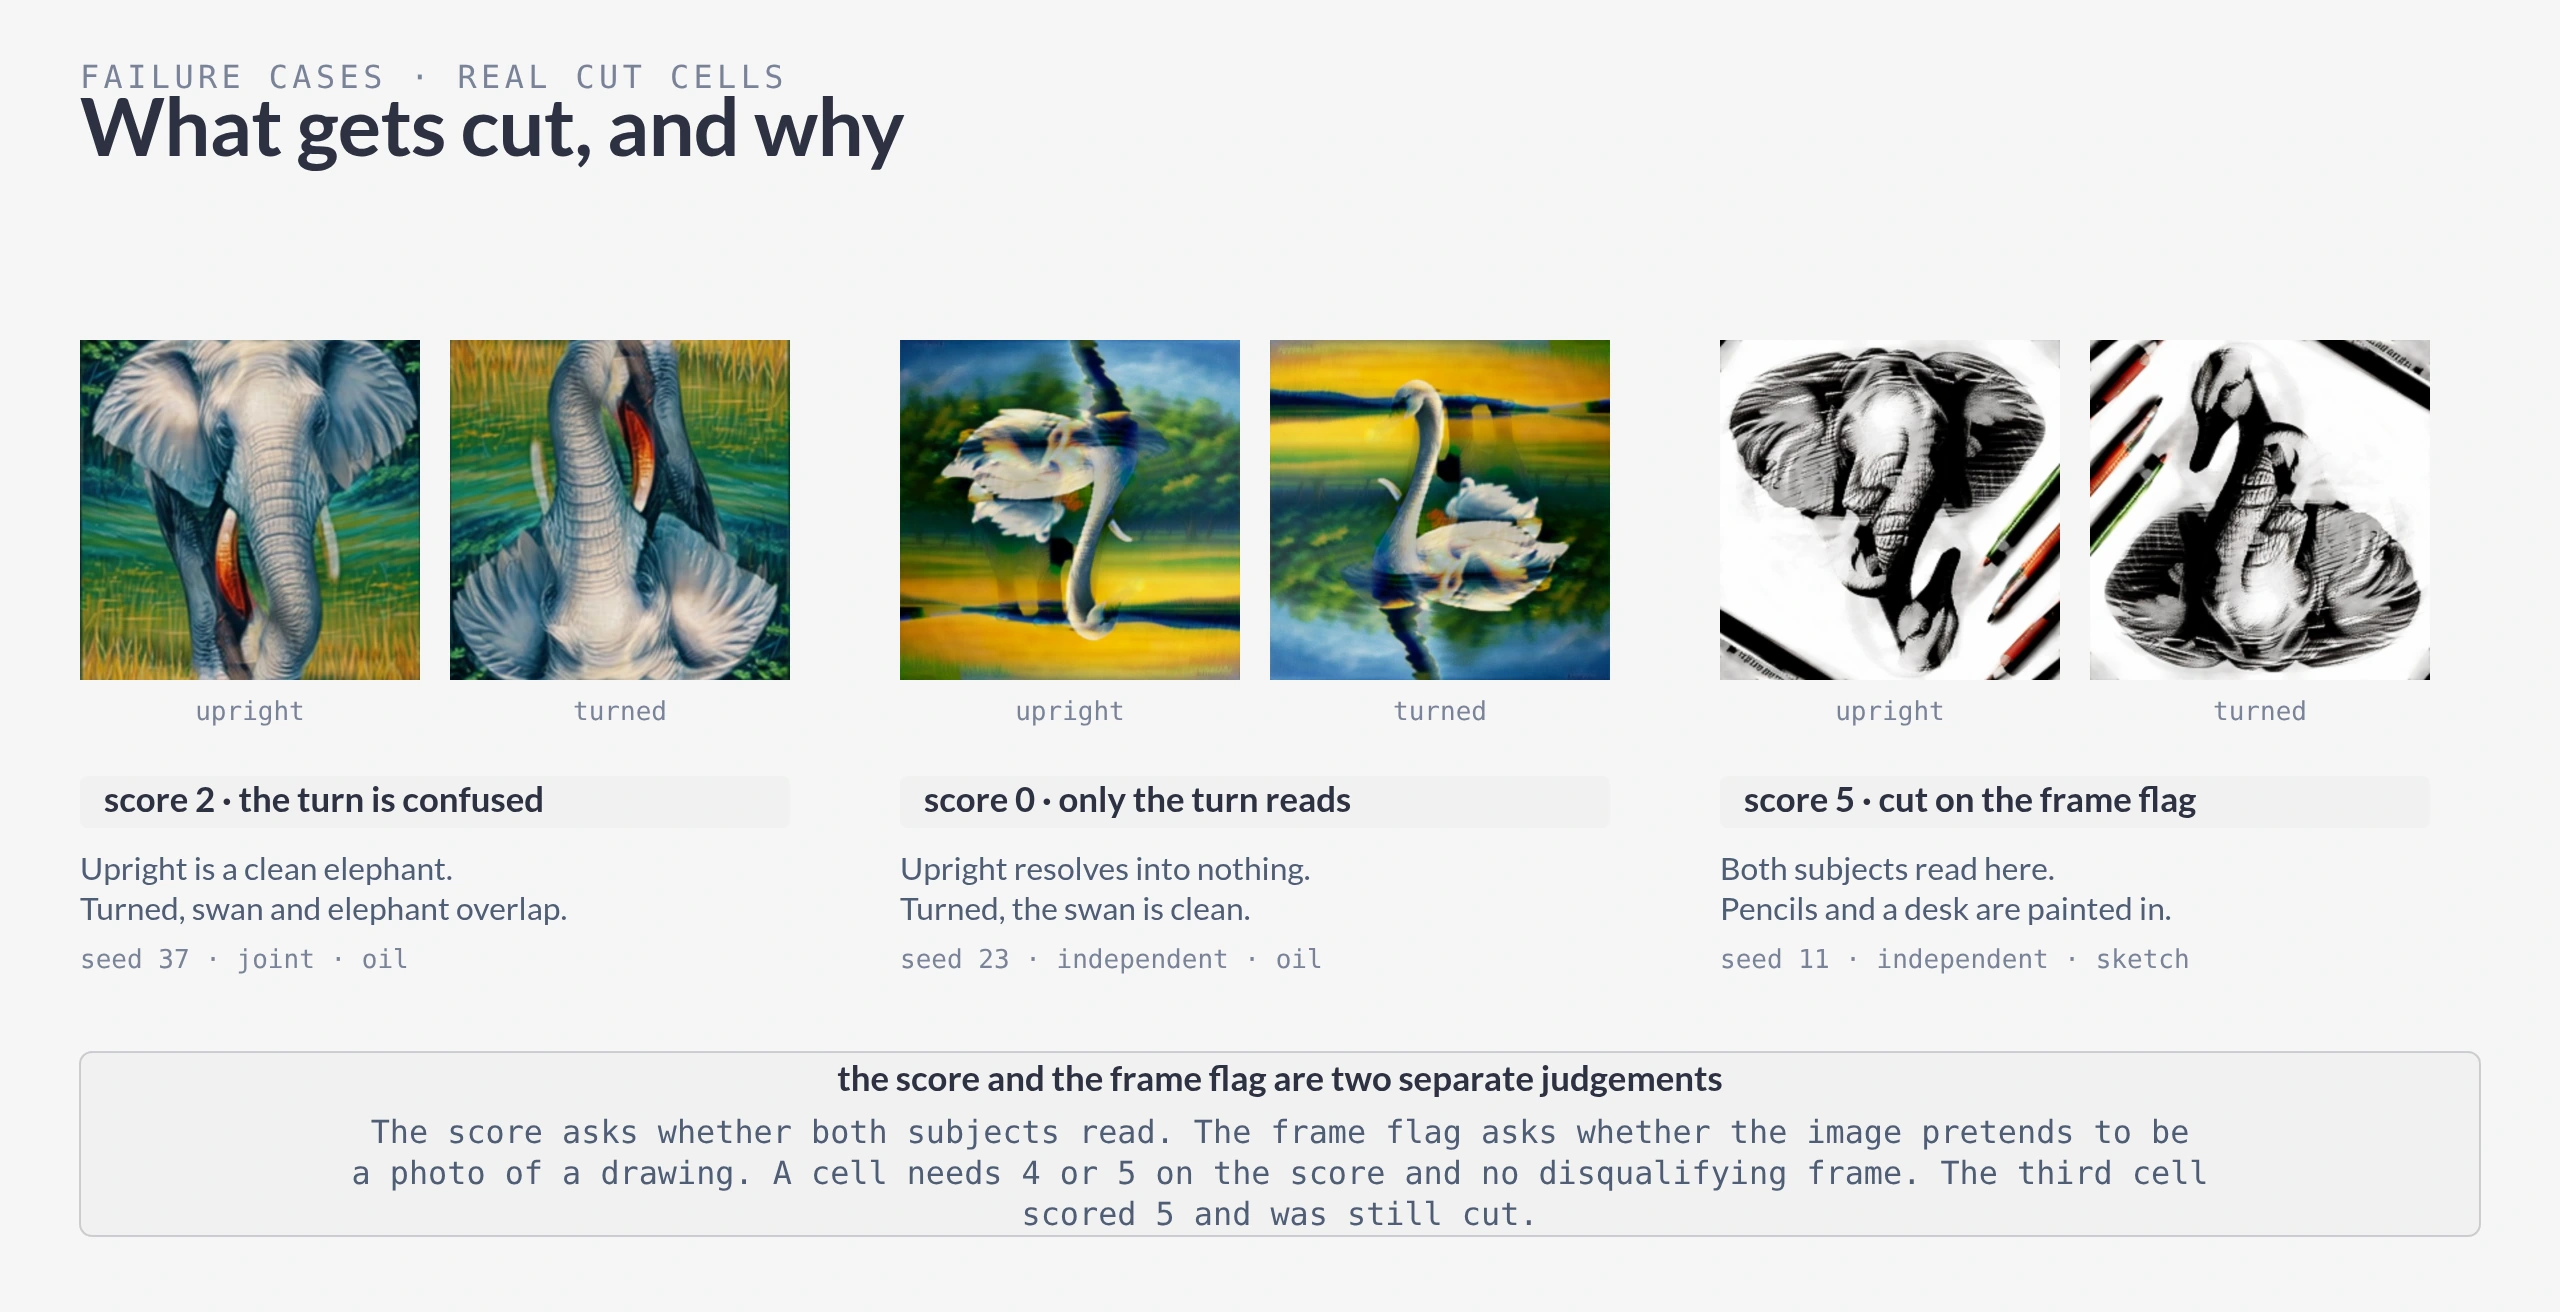
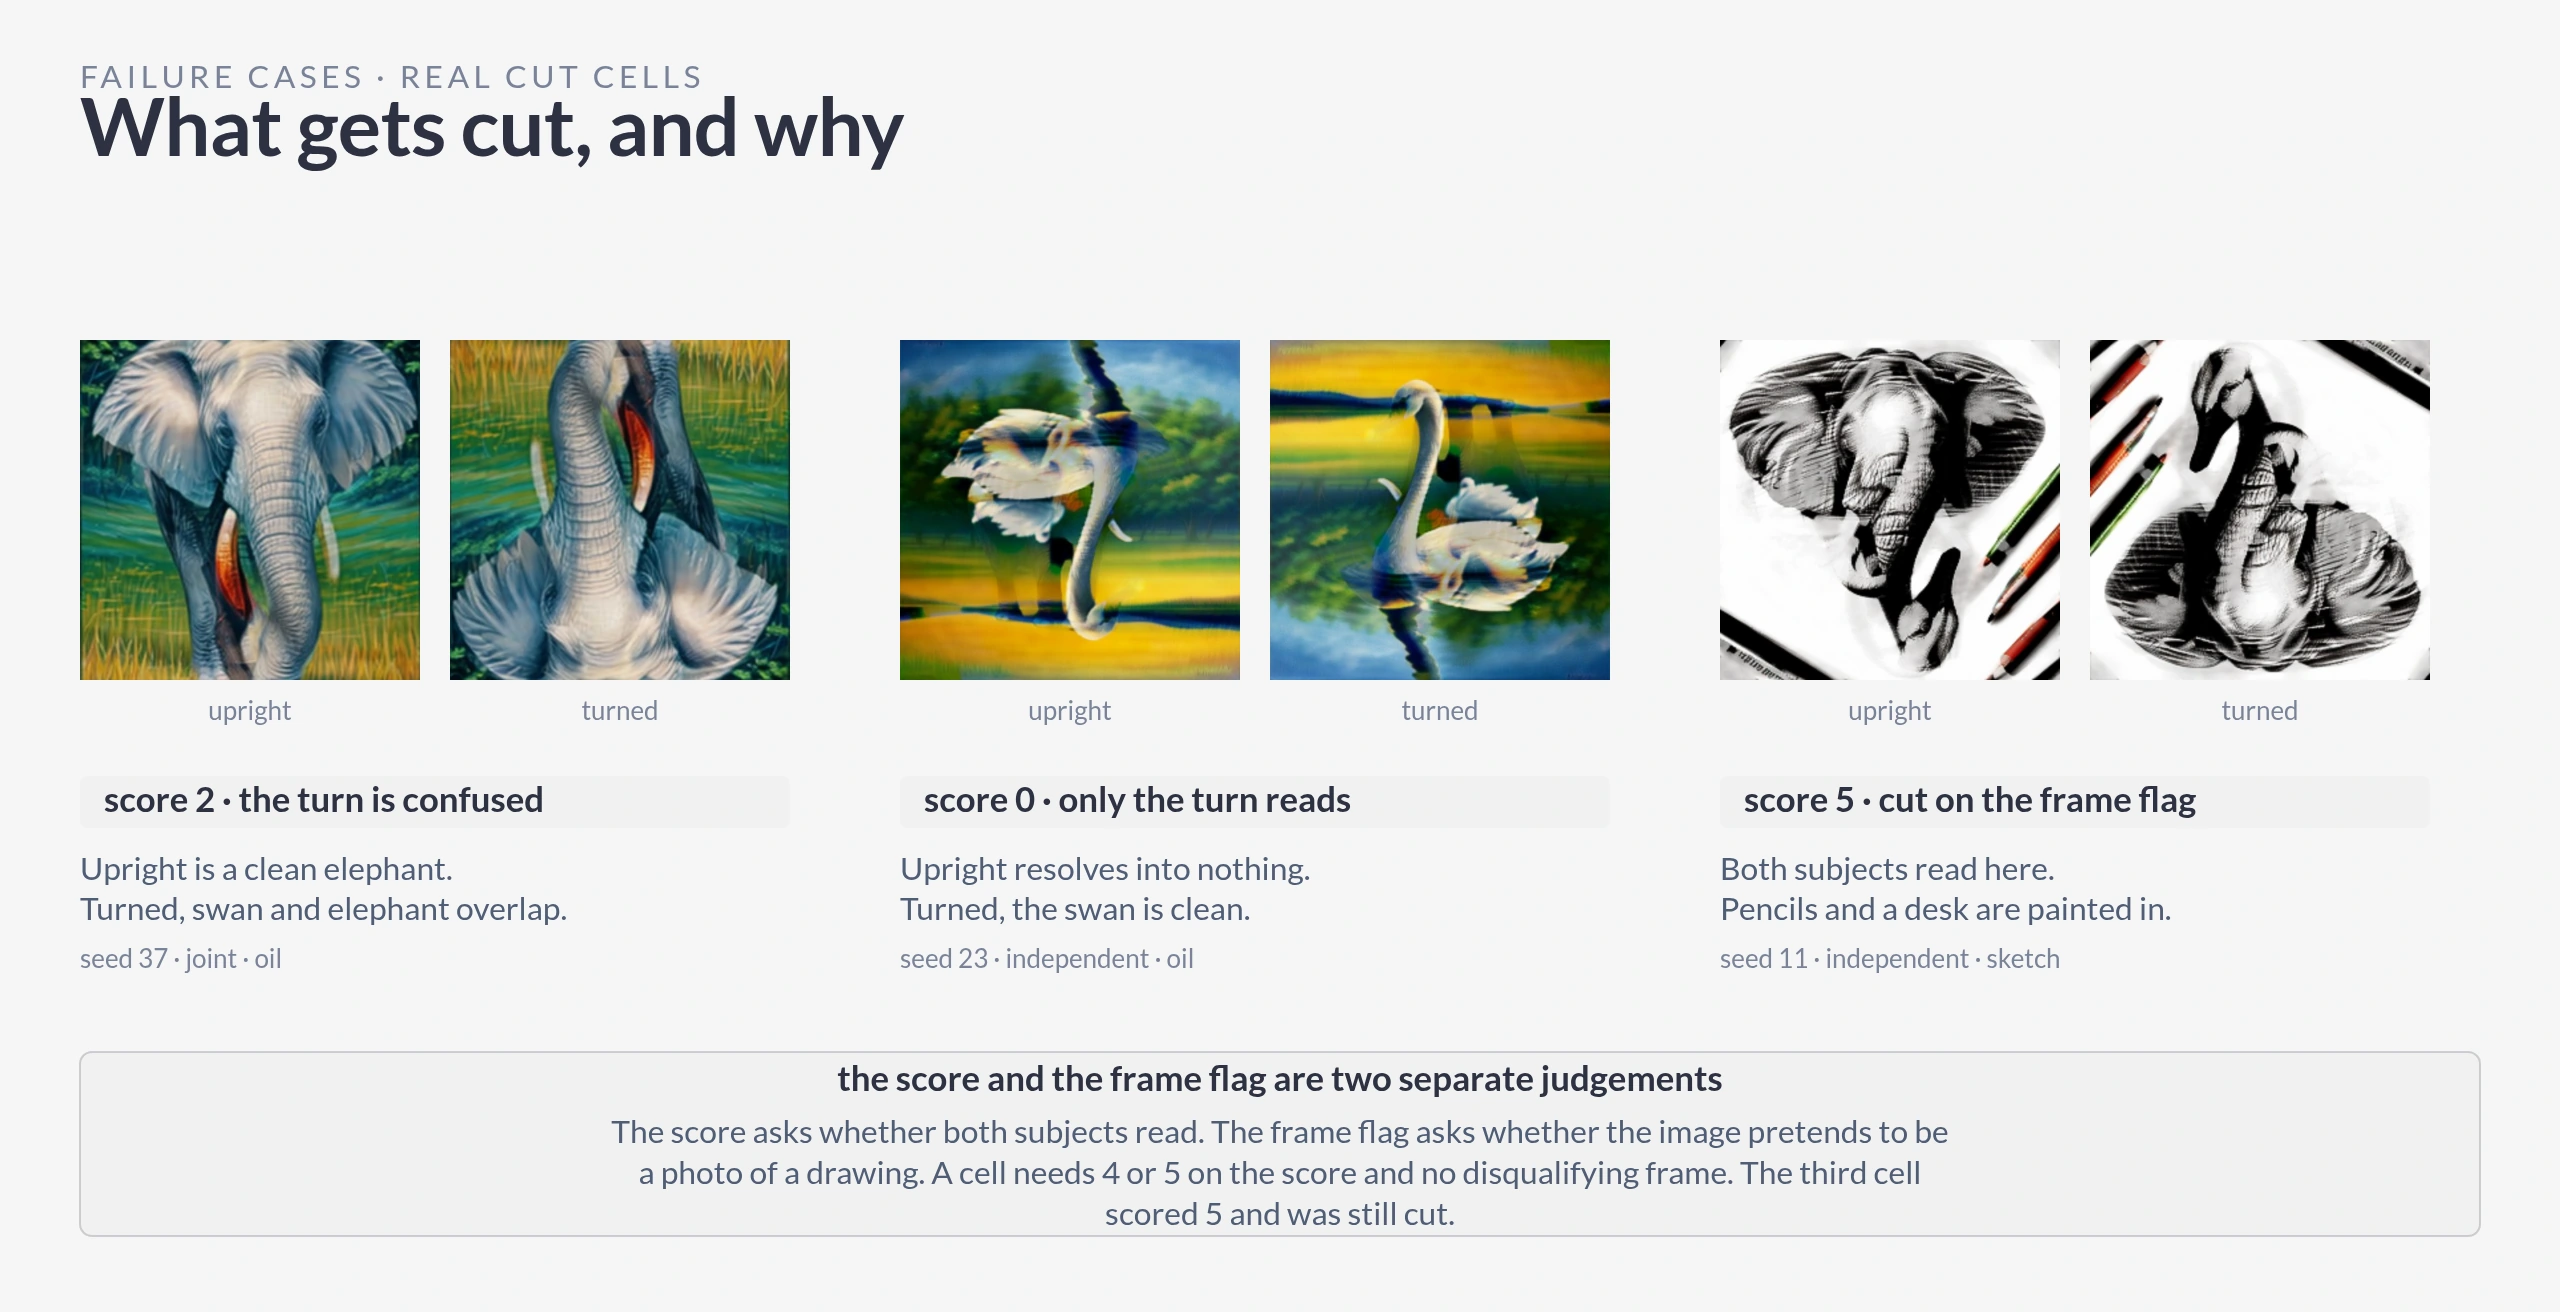
feat: set every figure label in Lato
The figures were two typefaces: Lato for headings and body, DejaVu Sans
Mono for code, values and axis labels. They are one family now.

SANS, MONO and DISPLAY still exist because they name the role a label
plays, body, value or heading, but all three point at the same stack.
Numbers stay in column through tabular-nums on the SVG text elements
rather than through a monospace, so the symbol table, the residual table
and the loss chart keep their alignment.

Lato is narrower than the mono it replaces, so nothing that fitted
before stopped fitting. All fourteen figures re-rendered and read.

diff --git a/scripts/render-illusion-figures.py b/scripts/render-illusion-figures.py
@@ -41,9 +41,11 @@ SWAN = LOCAL / "campaigns/window2/runs/window2/a_forked_reference_sketch/elephan
 EAGLE = LOCAL / "campaigns/window2/runs/window2/a_forked_reference_sketch/eagle_phoenix/seed_11/attempt_001"
 
 FONTS = "https://fonts.googleapis.com/css2?family=Lato:wght@300;400;700;900&display=swap"
-SANS = "'Lato','DejaVu Sans',sans-serif"
-MONO = "'DejaVu Sans Mono',ui-monospace,monospace"
-DISPLAY = "'Lato','DejaVu Sans',sans-serif"
+# One family everywhere. The three names are the roles a label plays, not
+# three typefaces: SANS is body, MONO is code and measured values, DISPLAY
+# is a heading. Numbers stay aligned through tabular-nums, not a monospace.
+LATO = "'Lato','DejaVu Sans',sans-serif"
+SANS = MONO = DISPLAY = LATO
 
 PAPER, INK = "#f5f5f5", "#2d3142"
 MUTED, SOFT = "#4f5d75", "#7a8399"
@@ -108,7 +110,7 @@ def svg_open(slug, title, desc, w, h):
 def shell(svg):
     return (f'<!DOCTYPE html><html><head><meta charset="utf-8">'
             f'<link href="{FONTS}" rel="stylesheet">'
-            f'<style>html,body{{margin:0;padding:0;background:{PAPER};}}</style>'
+            f'<style>html,body{{margin:0;padding:0;background:{PAPER};}}text{{font-variant-numeric:tabular-nums;font-feature-settings:"tnum" 1;}}</style>'
             f'</head><body>{svg}</body></html>')
 
 
